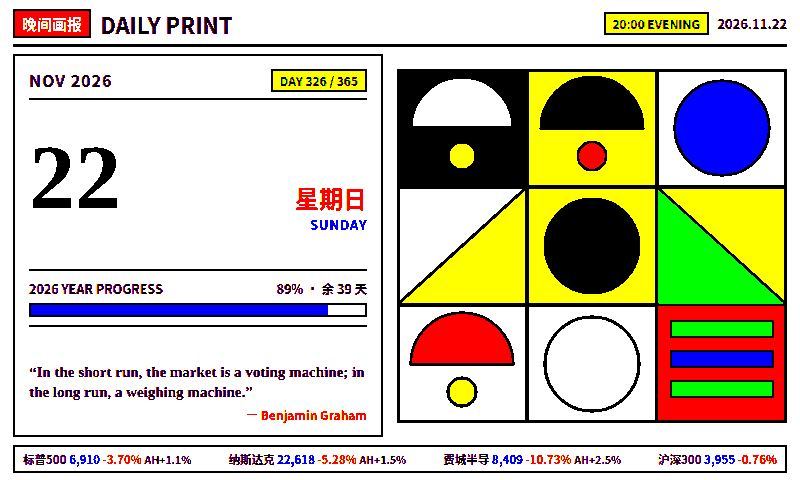
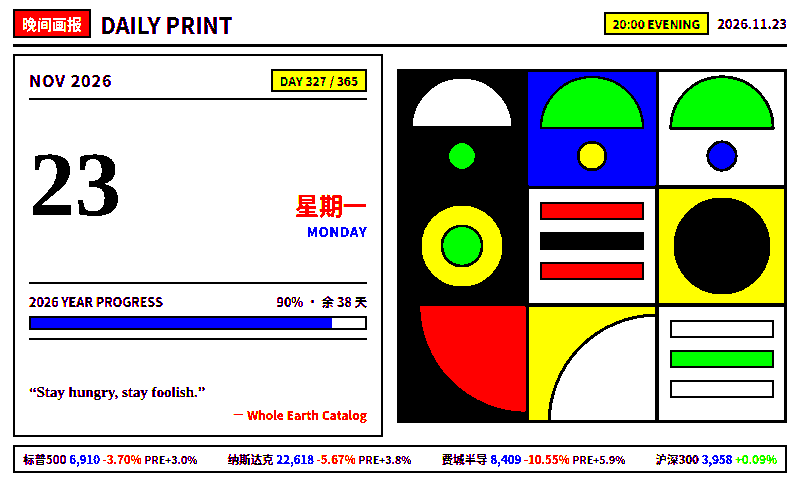
Update E1002 board (2026-11-23 19:46 CST)

diff --git a/docs/hn_render.html b/docs/hn_render.html
@@ -52,223 +52,118 @@
     font-size: 11.5px; font-weight: 800;
   }
 
-  .tiles {
-    display: grid; grid-template-columns: repeat(4, 1fr); gap: 6px;
-    margin-bottom: 8px;
+  .ev-body {
+    display: grid; grid-template-columns: 370px 390px; gap: 14px;
+    flex: 1; min-height: 0; align-items: stretch;
   }
-  .tile {
-    border: 2px solid var(--ink); padding: 4px 6px;
-    display: flex; flex-direction: column; gap: 1px;
+  .cal-panel {
+    display: flex; flex-direction: column; justify-content: space-between;
+    border: 2px solid var(--ink); padding: 12px 14px;
   }
-  .t-top { display: flex; justify-content: space-between; align-items: baseline; }
-  .t-name { font-size: 12px; font-weight: 900; }
-  .t-px { font-size: 12px; font-weight: 900; color: var(--blue); font-variant-numeric: tabular-nums; }
-  .t-mid { font-size: 14px; font-weight: 900; font-variant-numeric: tabular-nums; line-height: 1.15; }
-  .t-ext { font-size: 10.5px; font-weight: 800; font-variant-numeric: tabular-nums; }
-
-  .hn-sec-head {
+  .cal-top {
     display: flex; justify-content: space-between; align-items: center;
-    border-bottom: 2px solid var(--ink); padding-bottom: 3px; margin-bottom: 4px;
+    border-bottom: 2px solid var(--ink); padding-bottom: 6px;
   }
-  .hn-sec-title { font-size: 14px; font-weight: 900; }
-  .hn-badge { background: var(--red); color: var(--paper); padding: 0 5px; margin-right: 6px; }
-  .hn-grid { display: grid; grid-template-columns: 1fr 1fr; gap: 14px; flex: 1; min-height: 0; }
-  .hn-col { display: flex; flex-direction: column; }
-  .hn-col-right { border-left: 2px solid var(--ink); padding-left: 14px; }
-  .hn-card {
-    flex: 1; display: flex; align-items: center; gap: 9px;
-    padding: 4px 0; border-bottom: 1px solid var(--ink);
+  .cal-month { font-size: 16px; font-weight: 900; letter-spacing: 1px; }
+  .cal-wk-tag {
+    background: var(--yellow); border: 2px solid var(--ink);
+    font-size: 12px; font-weight: 900; padding: 1px 7px;
   }
-  .hn-card:last-child { border-bottom: none; }
-  .hn-rank { font-family: Georgia, serif; font-size: 20px; font-weight: 900; width: 26px; flex-shrink: 0; }
-  .hn-hot { color: var(--red); }
-  .hn-body { flex: 1; min-width: 0; }
-  .hn-title {
-    font-size: 15px; font-weight: 800; line-height: 1.24; margin-bottom: 2px;
-    display: -webkit-box; -webkit-line-clamp: 2; -webkit-box-orient: vertical; overflow: hidden;
+  .cal-day-wrap {
+    display: flex; align-items: baseline; justify-content: space-between;
+    padding: 4px 0;
   }
-  .hn-meta { font-size: 12px; font-weight: 800; display: flex; gap: 5px; white-space: nowrap; overflow: hidden; }
-  .hn-dom { color: var(--blue); }
-  .hn-pts { color: var(--red); font-weight: 900; }
+  .cal-day-num {
+    font-family: Georgia, "Times New Roman", serif;
+    font-size: 92px; font-weight: 900; line-height: 0.95; color: var(--ink);
+  }
+  .cal-day-side { text-align: right; }
+  .cal-wk-cn { font-size: 24px; font-weight: 900; color: var(--red); }
+  .cal-wk-en { font-size: 13px; font-weight: 900; letter-spacing: 0.8px; color: var(--blue); }
+
+  .prog-box {
+    border-top: 2px solid var(--ink); border-bottom: 2px solid var(--ink);
+    padding: 8px 0;
+  }
+  .prog-head {
+    display: flex; justify-content: space-between;
+    font-size: 12.5px; font-weight: 900; margin-bottom: 5px;
+  }
+  .prog-bar {
+    width: 100%; height: 14px; border: 2px solid var(--ink); background: var(--paper);
+  }
+  .prog-fill {
+    height: 100%; width: 90%; background: var(--blue);
+  }
+
+  .quote-box { padding-top: 6px; }
+  .quote-txt {
+    font-family: Georgia, "Times New Roman", serif;
+    font-size: 15px; font-weight: 900; line-height: 1.3; margin-bottom: 4px;
+  }
+  .quote-auth { font-size: 12px; font-weight: 900; color: var(--red); text-align: right; }
+
+  .art-panel {
+    display: flex; align-items: center; justify-content: center;
+  }
+
+  .ticker-bar {
+    border: 2px solid var(--ink); background: var(--paper);
+    margin-top: 8px; padding: 4px 8px;
+    display: flex; justify-content: space-between; align-items: center;
+    font-size: 11.5px; font-weight: 800; white-space: nowrap; overflow: hidden;
+  }
+  .e-px { color: var(--blue); font-weight: 900; }
+  .e-ext { color: var(--ink); font-size: 10.5px; }
 </style>
 </head>
 <body>
   <div class="page">
     <header class="masthead">
       <div class="brand">
-        <span class="badge badge-blue">午报</span>
-        <span class="title">午间盘面 × HN</span>
+        <span class="badge">晚间画报</span>
+        <span class="title">DAILY PRINT</span>
       </div>
       <div class="meta-right">
-        <span class="edition-pill">13:00 MIDDAY</span>
-        <span class="date-str">11/23 周一 12:45 CST</span>
+        <span class="edition-pill">20:00 EVENING</span>
+        <span class="date-str">2026.11.23</span>
       </div>
     </header>
 
-    <section class="tiles">
-      
-            <div class="tile">
-              <div class="t-top">
-                <span class="t-name">标普500</span>
-                <span class="t-px">6,910</span>
-              </div>
-              <div class="t-mid"><span class="down">-3.70%</span></div>
-              <div class="t-ext"><span class="up"><span class="ext-pfx">AH </span>+1.11%</span></div>
-            </div>
-            <div class="tile">
-              <div class="t-top">
-                <span class="t-name">纳斯达克</span>
-                <span class="t-px">22,618</span>
-              </div>
-              <div class="t-mid"><span class="down">-5.28%</span></div>
-              <div class="t-ext"><span class="up"><span class="ext-pfx">AH </span>+1.53%</span></div>
-            </div>
-            <div class="tile">
-              <div class="t-top">
-                <span class="t-name">费城半导</span>
-                <span class="t-px">8,409</span>
-              </div>
-              <div class="t-mid"><span class="down">-10.73%</span></div>
-              <div class="t-ext"><span class="up"><span class="ext-pfx">AH </span>+2.51%</span></div>
-            </div>
-            <div class="tile">
-              <div class="t-top">
-                <span class="t-name">美消费XLY</span>
-                <span class="t-px">112.46</span>
-              </div>
-              <div class="t-mid"><span class="flat">--</span></div>
-              <div class="t-ext"><span class="up"><span class="ext-pfx">AH </span>+1.37%</span></div>
-            </div>
-            <div class="tile">
-              <div class="t-top">
-                <span class="t-name">沪深300</span>
-                <span class="t-px">3,930</span>
-              </div>
-              <div class="t-mid"><span class="down">-0.62%</span></div>
-              <div class="t-ext"><span class="flat">日内收盘/午盘</span></div>
-            </div>
-            <div class="tile">
-              <div class="t-top">
-                <span class="t-name">中概KWEB</span>
-                <span class="t-px">20.72</span>
-              </div>
-              <div class="t-mid"><span class="down">-2.77%</span></div>
-              <div class="t-ext"><span class="flat">日内收盘/午盘</span></div>
-            </div>
-            <div class="tile">
-              <div class="t-top">
-                <span class="t-name">A半导体</span>
-                <span class="t-px">0.728</span>
-              </div>
-              <div class="t-mid"><span class="down">-2.28%</span></div>
-              <div class="t-ext"><span class="flat">日内收盘/午盘</span></div>
-            </div>
-            <div class="tile">
-              <div class="t-top">
-                <span class="t-name">A股消费</span>
-                <span class="t-px">0.700</span>
-              </div>
-              <div class="t-mid"><span class="down">-0.57%</span></div>
-              <div class="t-ext"><span class="flat">日内收盘/午盘</span></div>
-            </div>
-    </section>
-
-    <div class="hn-sec-head">
-      <span class="hn-sec-title"><span class="hn-badge">Y</span>Hacker News 午休深度精选</span>
-      <span class="t-px">news.ycombinator.com</span>
-    </div>
-
-    <main class="hn-grid">
-      <div class="hn-col">
-        <article class="hn-card">
-          <div class="hn-rank hn-hot">01</div>
-          <div class="hn-body">
-            <div class="hn-title">Toyota, Nissan, and Honda to standardize parts to lower costs</div>
-            <div class="hn-meta">
-              <span class="hn-dom">caranddriver.com</span>
-              <span>·</span>
-              <span class="hn-pts">▲1226</span>
-              <span>·</span>
-              <span>686 cmts</span>
-            </div>
+    <main class="ev-body">
+      <section class="cal-panel">
+        <div class="cal-top">
+          <span class="cal-month">NOV 2026</span>
+          <span class="cal-wk-tag">DAY 327 / 365</span>
+        </div>
+        <div class="cal-day-wrap">
+          <div class="cal-day-num">23</div>
+          <div class="cal-day-side">
+            <div class="cal-wk-cn">星期一</div>
+            <div class="cal-wk-en">MONDAY</div>
           </div>
-        </article>
+        </div>
+        <div class="prog-box">
+          <div class="prog-head">
+            <span>2026 YEAR PROGRESS</span>
+            <span>90% · 余 38 天</span>
+          </div>
+          <div class="prog-bar"><div class="prog-fill"></div></div>
+        </div>
+        <div class="quote-box">
+          <div class="quote-txt">“Stay hungry, stay foolish.”</div>
+          <div class="quote-auth">— Whole Earth Catalog</div>
+        </div>
+      </section>
 
-        <article class="hn-card">
-          <div class="hn-rank hn-hot">02</div>
-          <div class="hn-body">
-            <div class="hn-title">Perplexity and Intelligence</div>
-            <div class="hn-meta">
-              <span class="hn-dom">openai.com</span>
-              <span>·</span>
-              <span class="hn-pts">▲525</span>
-              <span>·</span>
-              <span>360 cmts</span>
-            </div>
-          </div>
-        </article>
-
-        <article class="hn-card">
-          <div class="hn-rank">03</div>
-          <div class="hn-body">
-            <div class="hn-title">What Happened to Silicon Valley?</div>
-            <div class="hn-meta">
-              <span class="hn-dom">oreilly.com</span>
-              <span>·</span>
-              <span class="hn-pts">▲514</span>
-              <span>·</span>
-              <span>288 cmts</span>
-            </div>
-          </div>
-        </article></div>
-      <div class="hn-col hn-col-right">
-        <article class="hn-card">
-          <div class="hn-rank">04</div>
-          <div class="hn-body">
-            <div class="hn-title">The Birds of GTA 6: A Field Guide to Vice City and Leonida&#x27;s Wildlife</div>
-            <div class="hn-meta">
-              <span class="hn-dom">audubon.org</span>
-              <span>·</span>
-              <span class="hn-pts">▲408</span>
-              <span>·</span>
-              <span>201 cmts</span>
-            </div>
-          </div>
-        </article>
-
-        <article class="hn-card">
-          <div class="hn-rank">05</div>
-          <div class="hn-body">
-            <div class="hn-title">A Beginner&#x27;s Guide to Local AI with Inkling, Qwen, and Unsloth</div>
-            <div class="hn-meta">
-              <span class="hn-dom">gpupartner.com</span>
-              <span>·</span>
-              <span class="hn-pts">▲340</span>
-              <span>·</span>
-              <span>143 cmts</span>
-            </div>
-          </div>
-        </article>
-
-        <article class="hn-card">
-          <div class="hn-rank">06</div>
-          <div class="hn-body">
-            <div class="hn-title">Show HN: I built a game where you are an LLM&#x27;s subagent</div>
-            <div class="hn-meta">
-              <span class="hn-dom">github.com</span>
-              <span>·</span>
-              <span class="hn-pts">▲290</span>
-              <span>·</span>
-              <span>69 cmts</span>
-            </div>
-          </div>
-        </article></div>
+      <section class="art-panel">
+        <svg xmlns="http://www.w3.org/2000/svg" width="390" height="354" viewBox="0 0 390 354"><rect x="0" y="0" width="130" height="118" fill="#000000" stroke="#000000" stroke-width="3"/><path d="M 14 59 A 51 51 0 0 1 116 59 Z" fill="#FFFFFF" stroke="#000000" stroke-width="3"/><circle cx="65" cy="87" r="14" fill="#00FF00" stroke="#000000" stroke-width="3"/><rect x="130" y="0" width="130" height="118" fill="#0000FF" stroke="#000000" stroke-width="3"/><path d="M 144 59 A 51 51 0 0 1 246 59 Z" fill="#00FF00" stroke="#000000" stroke-width="3"/><circle cx="195" cy="87" r="14" fill="#FFFF00" stroke="#000000" stroke-width="3"/><rect x="260" y="0" width="130" height="118" fill="#FFFFFF" stroke="#000000" stroke-width="3"/><path d="M 274 59 A 51 51 0 0 1 376 59 Z" fill="#00FF00" stroke="#000000" stroke-width="3"/><circle cx="325" cy="87" r="14" fill="#0000FF" stroke="#000000" stroke-width="3"/><rect x="0" y="118" width="130" height="118" fill="#000000" stroke="#000000" stroke-width="3"/><circle cx="65" cy="177" r="42" fill="#FFFF00" stroke="#000000" stroke-width="3"/><circle cx="65" cy="177" r="20" fill="#00FF00" stroke="#000000" stroke-width="3"/><rect x="130" y="118" width="130" height="118" fill="#FFFFFF" stroke="#000000" stroke-width="3"/><rect x="144" y="134" width="102" height="16" fill="#FF0000" stroke="#000000" stroke-width="2"/><rect x="144" y="164" width="102" height="16" fill="#000000" stroke="#000000" stroke-width="2"/><rect x="144" y="194" width="102" height="16" fill="#FF0000" stroke="#000000" stroke-width="2"/><rect x="260" y="118" width="130" height="118" fill="#FFFF00" stroke="#000000" stroke-width="3"/><circle cx="325" cy="177" r="47" fill="#000000" stroke="#000000" stroke-width="3"/><rect x="0" y="236" width="130" height="118" fill="#000000" stroke="#000000" stroke-width="3"/><path d="M 130 236 L 130 344 A 108 108 0 0 1 22 236 Z" fill="#FF0000" stroke="#000000" stroke-width="3"/><rect x="130" y="236" width="130" height="118" fill="#FFFF00" stroke="#000000" stroke-width="3"/><path d="M 260 354 L 152 354 A 108 108 0 0 1 260 246 Z" fill="#FFFFFF" stroke="#000000" stroke-width="3"/><rect x="260" y="236" width="130" height="118" fill="#FFFFFF" stroke="#000000" stroke-width="3"/><rect x="274" y="252" width="102" height="16" fill="#FFFFFF" stroke="#000000" stroke-width="2"/><rect x="274" y="282" width="102" height="16" fill="#00FF00" stroke="#000000" stroke-width="2"/><rect x="274" y="312" width="102" height="16" fill="#FFFFFF" stroke="#000000" stroke-width="2"/><rect x="1.5" y="1.5" width="387" height="351" fill="none" stroke="#000000" stroke-width="3"/></svg>
+      </section>
     </main>
 
-    <footer class="footer">
-      <span><span class="up">▲绿涨</span> <span class="down">▼红跌</span> · 午间档 13:00 · 晚 20:00 切换艺术画报</span>
-      <span>reTerminal E1002 · Spectra 6 Crisp</span>
-    </footer>
+    <div class="ticker-bar">
+      <span class="e-tick"><b>标普500</b> <span class="e-px">6,910</span> <span class="down">-3.70%</span> <span class="e-ext">PRE+3.0%</span></span><span class="e-tick"><b>纳斯达克</b> <span class="e-px">22,618</span> <span class="down">-5.67%</span> <span class="e-ext">PRE+3.8%</span></span><span class="e-tick"><b>费城半导</b> <span class="e-px">8,409</span> <span class="down">-10.55%</span> <span class="e-ext">PRE+5.9%</span></span><span class="e-tick"><b>沪深300</b> <span class="e-px">3,958</span> <span class="up">+0.09%</span></span>
+    </div>
   </div>
 </body>
 </html>
